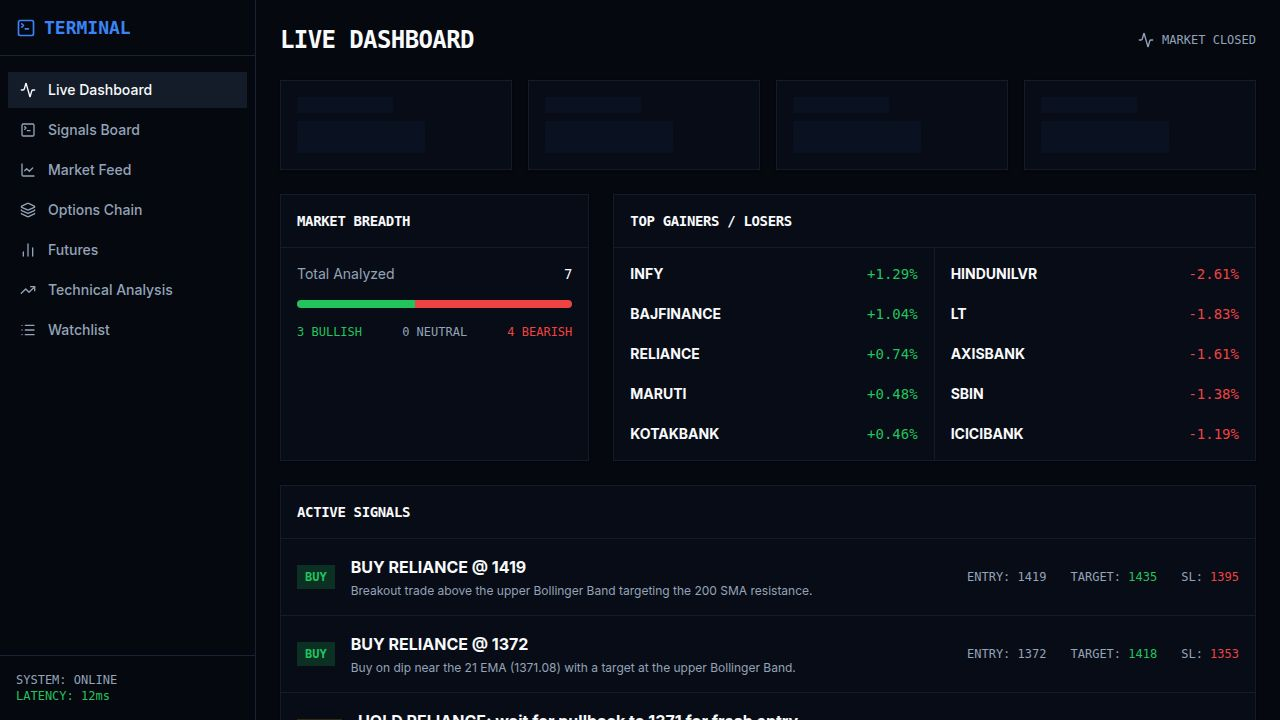
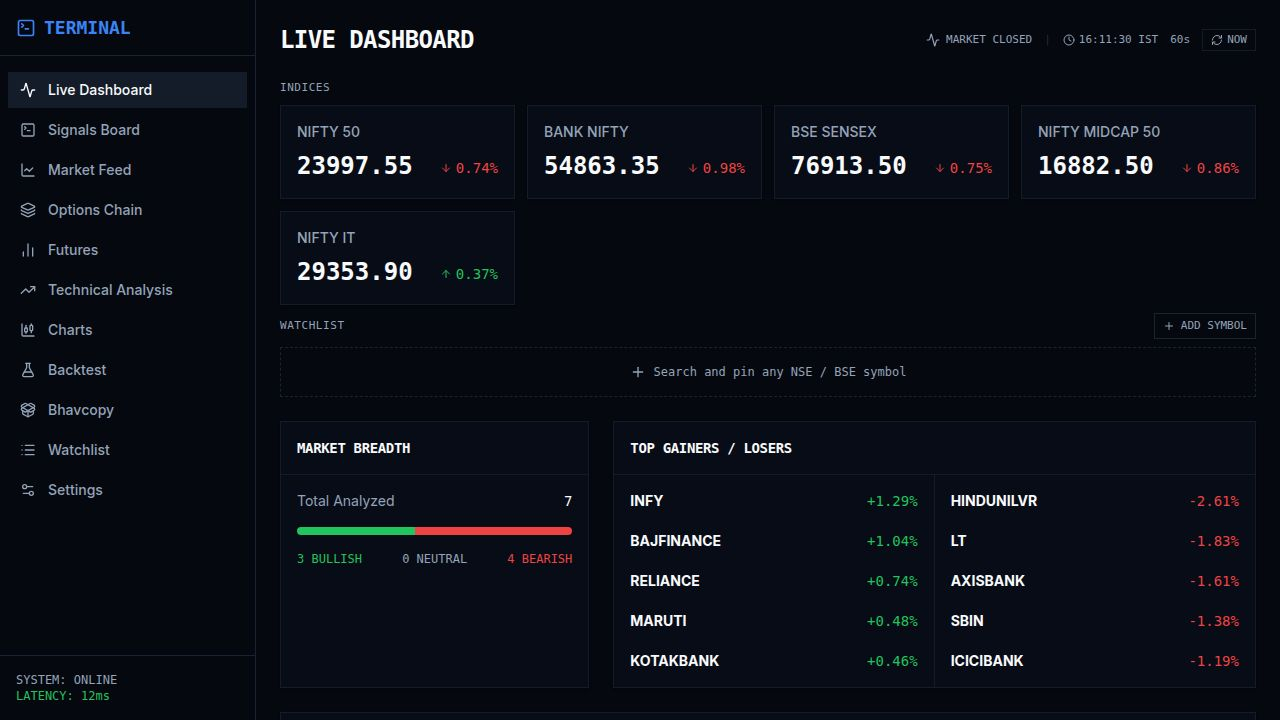
Published your App
Replit-Commit-Author: Deployment
Replit-Commit-Session-Id: 4951f30a-f5ba-401d-9df6-e2b37e4d2f57
Replit-Commit-Checkpoint-Type: full_checkpoint
Replit-Commit-Event-Id: a250f765-f410-44ff-8691-53afe3056901
Replit-Commit-Screenshot-Url: https://storage.googleapis.com/screenshot-production-us-central1/d43f1a26-4e25-4acf-9ae5-d41a19129fbf/4951f30a-f5ba-401d-9df6-e2b37e4d2f57/hr0s3V5
Replit-Commit-Deployment-Build-Id: 5b48f2be-e016-4972-8948-3c091ca2f01b
Replit-Helium-Checkpoint-Created: true

diff --git a/artifacts/api-server/src/lib/multi-ai.ts b/artifacts/api-server/src/lib/multi-ai.ts
@@ -1,9 +1,10 @@
 import OpenAI from "openai";
+import Anthropic from "@anthropic-ai/sdk";
 import { db, providerSettings } from "@workspace/db";
 import { eq } from "drizzle-orm";
 import { logger } from "./logger";
 
-export type AIProvider = "nvidia" | "openai" | "gemini";
+export type AIProvider = "nvidia" | "openai" | "gemini" | "claude";
 
 export type AIMessage = { role: "system" | "user" | "assistant"; content: string };
 
@@ -19,9 +20,10 @@ const PROVIDER_MODELS: Record<AIProvider, string> = {
   nvidia: process.env["NVIDIA_MODEL"] ?? "qwen/qwen3.5-122b-a10b",
   openai: "gpt-4o-mini",
   gemini: "gemini-1.5-flash",
+  claude: "claude-3-5-haiku-20241022",
 };
 
-function makeClient(provider: AIProvider, apiKey: string): OpenAI {
+function makeOpenAIClient(provider: Exclude<AIProvider, "claude">, apiKey: string): OpenAI {
   if (provider === "nvidia") {
     return new OpenAI({ apiKey, baseURL: NVIDIA_BASE_URL });
   }
@@ -47,11 +49,36 @@ async function getProviderKey(provider: AIProvider): Promise<string | null> {
   }
 }
 
+async function callClaude(
+  apiKey: string,
+  messages: AIMessage[],
+  maxTokens: number
+): Promise<string> {
+  const client = new Anthropic({ apiKey });
+
+  const systemMsg = messages.find((m) => m.role === "system")?.content ?? "";
+  const chatMessages = messages
+    .filter((m) => m.role !== "system")
+    .map((m) => ({ role: m.role as "user" | "assistant", content: m.content }));
+
+  const response = await client.messages.create({
+    model: PROVIDER_MODELS.claude,
+    max_tokens: maxTokens,
+    system: systemMsg || undefined,
+    messages: chatMessages,
+  });
+
+  const block = response.content[0];
+  if (!block || block.type !== "text") throw new Error("Empty Claude response");
+  return block.text.trim();
+}
+
 export async function callWithFallback(
   messages: AIMessage[],
   options: { maxTokens?: number } = {}
 ): Promise<AICompletionResult> {
-  const order: AIProvider[] = ["nvidia", "openai", "gemini"];
+  const order: AIProvider[] = ["nvidia", "openai", "claude", "gemini"];
+  const maxTokens = options.maxTokens ?? 2048;
 
   for (const provider of order) {
     const apiKey = await getProviderKey(provider);
@@ -61,19 +88,23 @@ export async function callWithFallback(
     }
 
     try {
-      const client = makeClient(provider, apiKey);
-      const model = PROVIDER_MODELS[provider];
+      let content: string;
 
-      const response = await client.chat.completions.create({
-        model,
-        max_tokens: options.maxTokens ?? 2048,
-        messages: messages as Parameters<typeof client.chat.completions.create>[0]["messages"],
-      });
+      if (provider === "claude") {
+        content = await callClaude(apiKey, messages, maxTokens);
+      } else {
+        const client = makeOpenAIClient(provider, apiKey);
+        const model = PROVIDER_MODELS[provider];
+        const response = await client.chat.completions.create({
+          model,
+          max_tokens: maxTokens,
+          messages: messages as Parameters<typeof client.chat.completions.create>[0]["messages"],
+        });
+        content = response.choices[0]?.message?.content?.trim() ?? "";
+        if (!content) throw new Error("Empty response");
+      }
 
-      const content = response.choices[0]?.message?.content?.trim() ?? "";
-      if (!content) throw new Error("Empty response");
-
-      logger.info({ provider, model }, "AI call succeeded");
+      logger.info({ provider, model: PROVIDER_MODELS[provider] }, "AI call succeeded");
       return { content, provider };
     } catch (err) {
       logger.warn({ err, provider }, "AI provider failed, trying next");
@@ -90,7 +121,7 @@ export async function getProvidersStatus(): Promise<
   const dbMap = new Map(dbRows.map((r) => [r.provider, r]));
 
   const nvidiaKey = process.env["NVIDIA_API_KEY"];
-  const providers: AIProvider[] = ["nvidia", "openai", "gemini"];
+  const providers: AIProvider[] = ["nvidia", "openai", "claude", "gemini"];
 
   return providers.map((p, idx) => {
     if (p === "nvidia") {
@@ -107,7 +138,7 @@ export async function getProvidersStatus(): Promise<
 }
 
 export async function saveProviderKey(
-  provider: "openai" | "gemini",
+  provider: "openai" | "gemini" | "claude",
   apiKey: string
 ): Promise<void> {
   await db
@@ -120,7 +151,7 @@ export async function saveProviderKey(
 }
 
 export async function toggleProvider(
-  provider: "openai" | "gemini",
+  provider: "openai" | "gemini" | "claude",
   enabled: boolean
 ): Promise<void> {
   await db

diff --git a/artifacts/api-server/src/routes/ai-providers.ts b/artifacts/api-server/src/routes/ai-providers.ts
@@ -3,6 +3,13 @@ import { getProvidersStatus, saveProviderKey, toggleProvider } from "../lib/mult
 
 const router: IRouter = Router();
 
+const DB_PROVIDERS = ["openai", "claude", "gemini"] as const;
+type DbProvider = (typeof DB_PROVIDERS)[number];
+
+function isDbProvider(p: string): p is DbProvider {
+  return (DB_PROVIDERS as readonly string[]).includes(p);
+}
+
 router.get("/ai-providers/status", async (req, res) => {
   try {
     const status = await getProvidersStatus();
@@ -16,8 +23,8 @@ router.get("/ai-providers/status", async (req, res) => {
 router.post("/ai-providers/:provider/key", async (req, res) => {
   try {
     const { provider } = req.params;
-    if (provider !== "openai" && provider !== "gemini") {
-      res.status(400).json({ error: "Invalid provider. Must be openai or gemini." });
+    if (!isDbProvider(provider)) {
+      res.status(400).json({ error: "Invalid provider. Must be openai, claude, or gemini." });
       return;
     }
     const { apiKey } = req.body as { apiKey?: string };
@@ -36,7 +43,7 @@ router.post("/ai-providers/:provider/key", async (req, res) => {
 router.patch("/ai-providers/:provider/toggle", async (req, res) => {
   try {
     const { provider } = req.params;
-    if (provider !== "openai" && provider !== "gemini") {
+    if (!isDbProvider(provider)) {
       res.status(400).json({ error: "Invalid provider" });
       return;
     }

diff --git a/artifacts/market-dashboard/src/pages/settings.tsx b/artifacts/market-dashboard/src/pages/settings.tsx
@@ -11,7 +11,7 @@ import { Settings2, RefreshCw, BarChart2, Eye, Save, RotateCcw, BrainCircuit, Sl
 import { cn } from "@/lib/utils";
 
 type ProviderStatus = {
-  provider: "nvidia" | "openai" | "gemini";
+  provider: "nvidia" | "openai" | "claude" | "gemini";
   configured: boolean;
   enabled: boolean;
   isDefault: boolean;
@@ -31,6 +31,13 @@ const PROVIDER_META: Record<string, { label: string; color: string; keyUrl: stri
     keyUrl: "https://platform.openai.com/api-keys",
     keyHint: "sk-...",
     model: "GPT-4o Mini",
+  },
+  claude: {
+    label: "Anthropic Claude",
+    color: "text-orange-400",
+    keyUrl: "https://console.anthropic.com/settings/keys",
+    keyHint: "sk-ant-...",
+    model: "Claude 3.5 Haiku",
   },
   gemini: {
     label: "Google Gemini",
@@ -63,7 +70,7 @@ function AIProvidersCard() {
 
   useEffect(() => { void fetchStatus(); }, []);
 
-  const handleSaveKey = async (provider: "openai" | "gemini") => {
+  const handleSaveKey = async (provider: "openai" | "claude" | "gemini") => {
     const key = keyInputs[provider]?.trim();
     if (!key || key.length < 8) {
       toast({ title: "Invalid Key", description: "Please enter a valid API key.", variant: "destructive" });